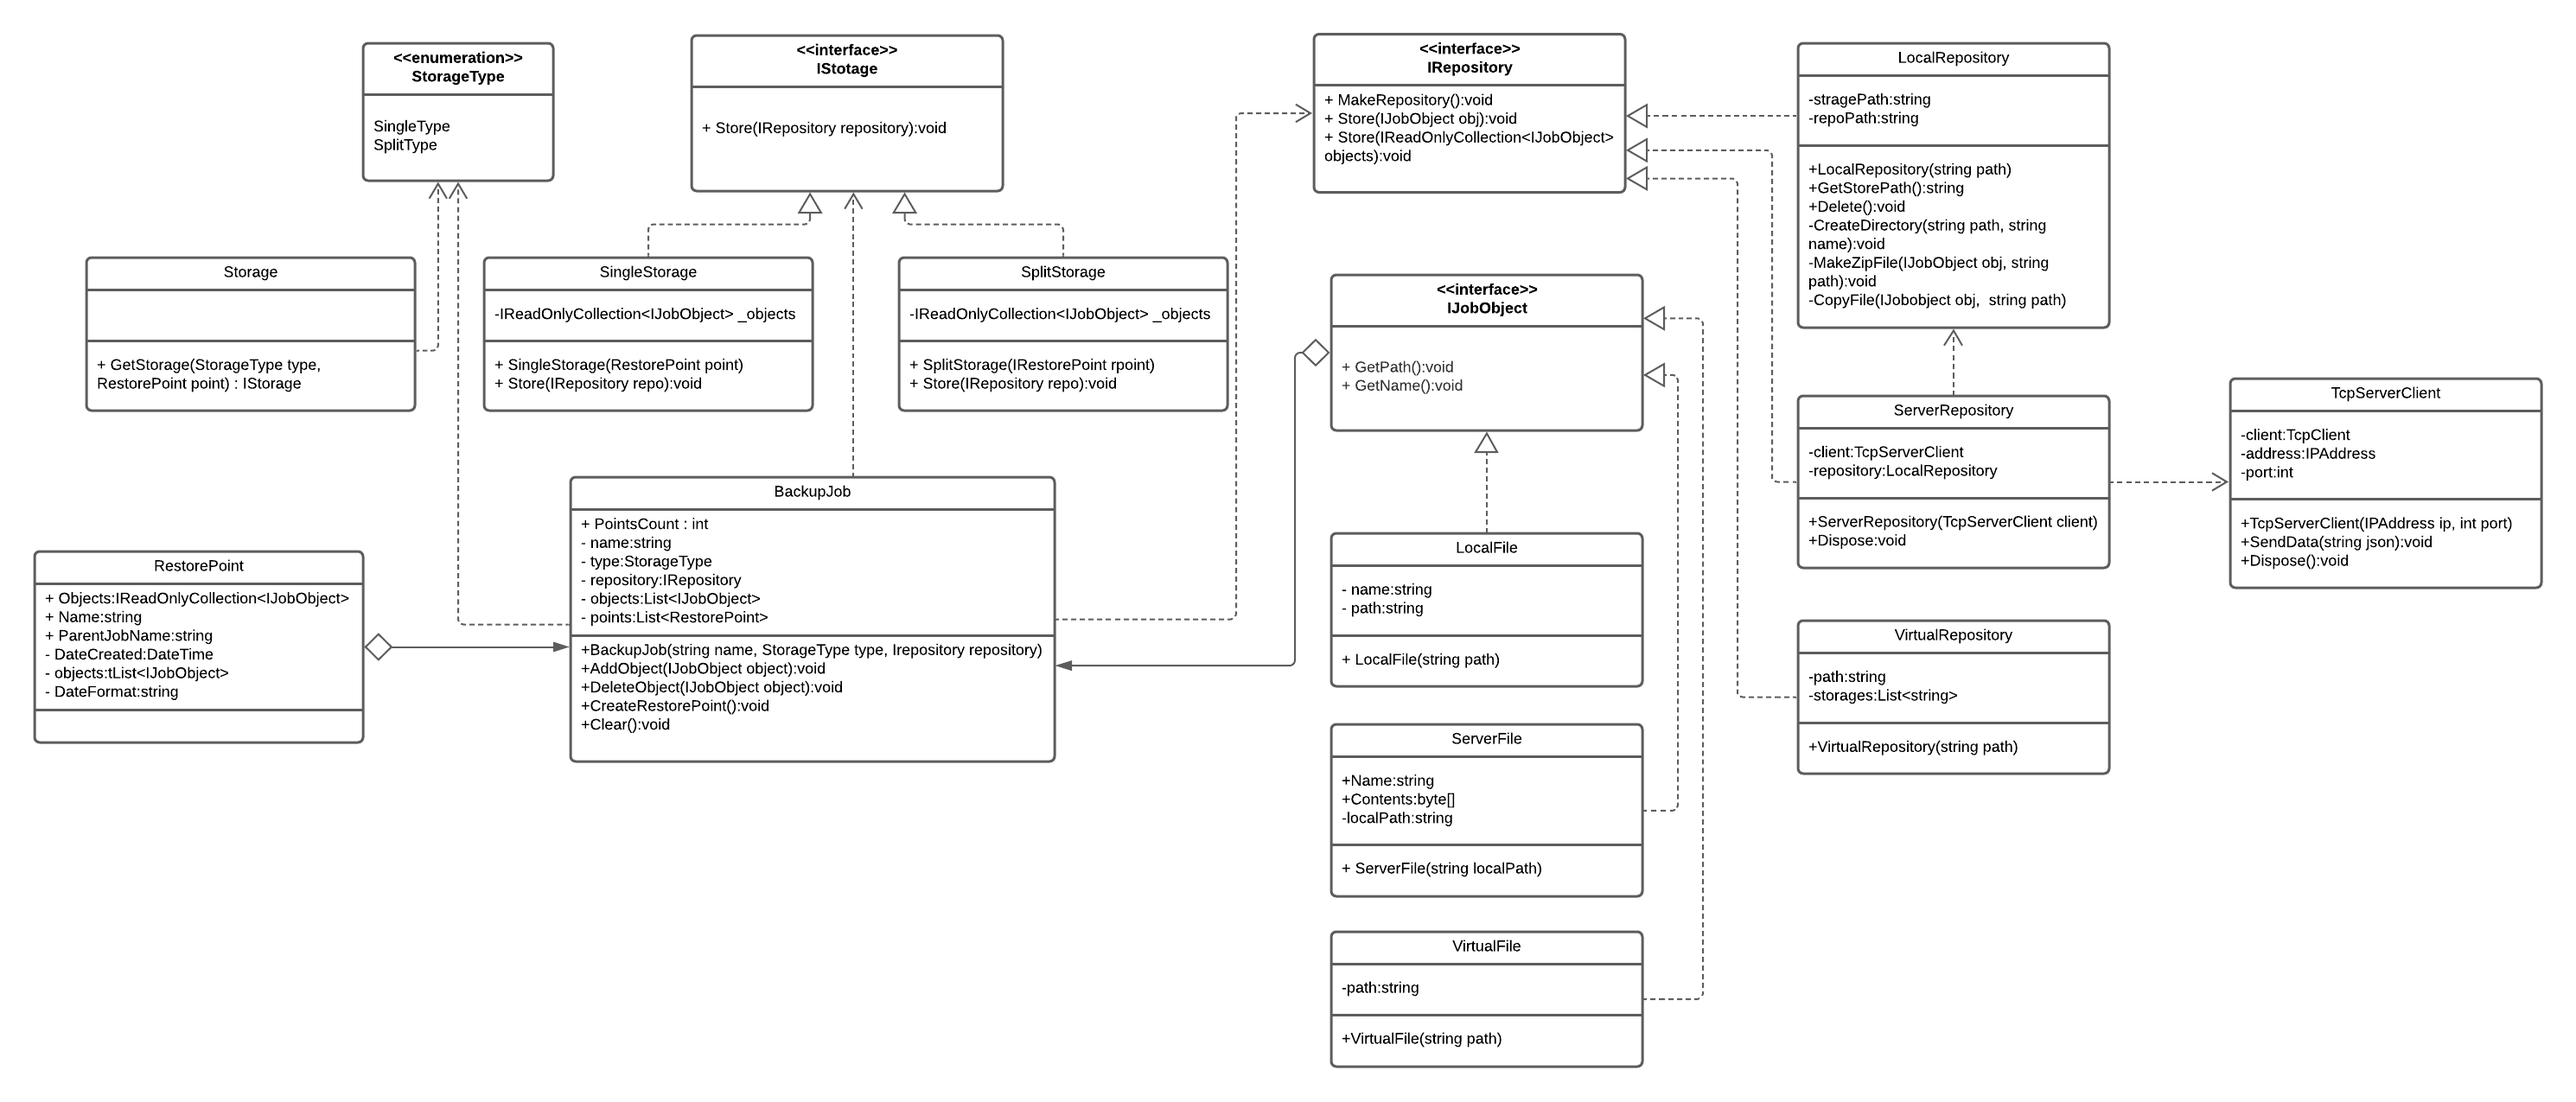
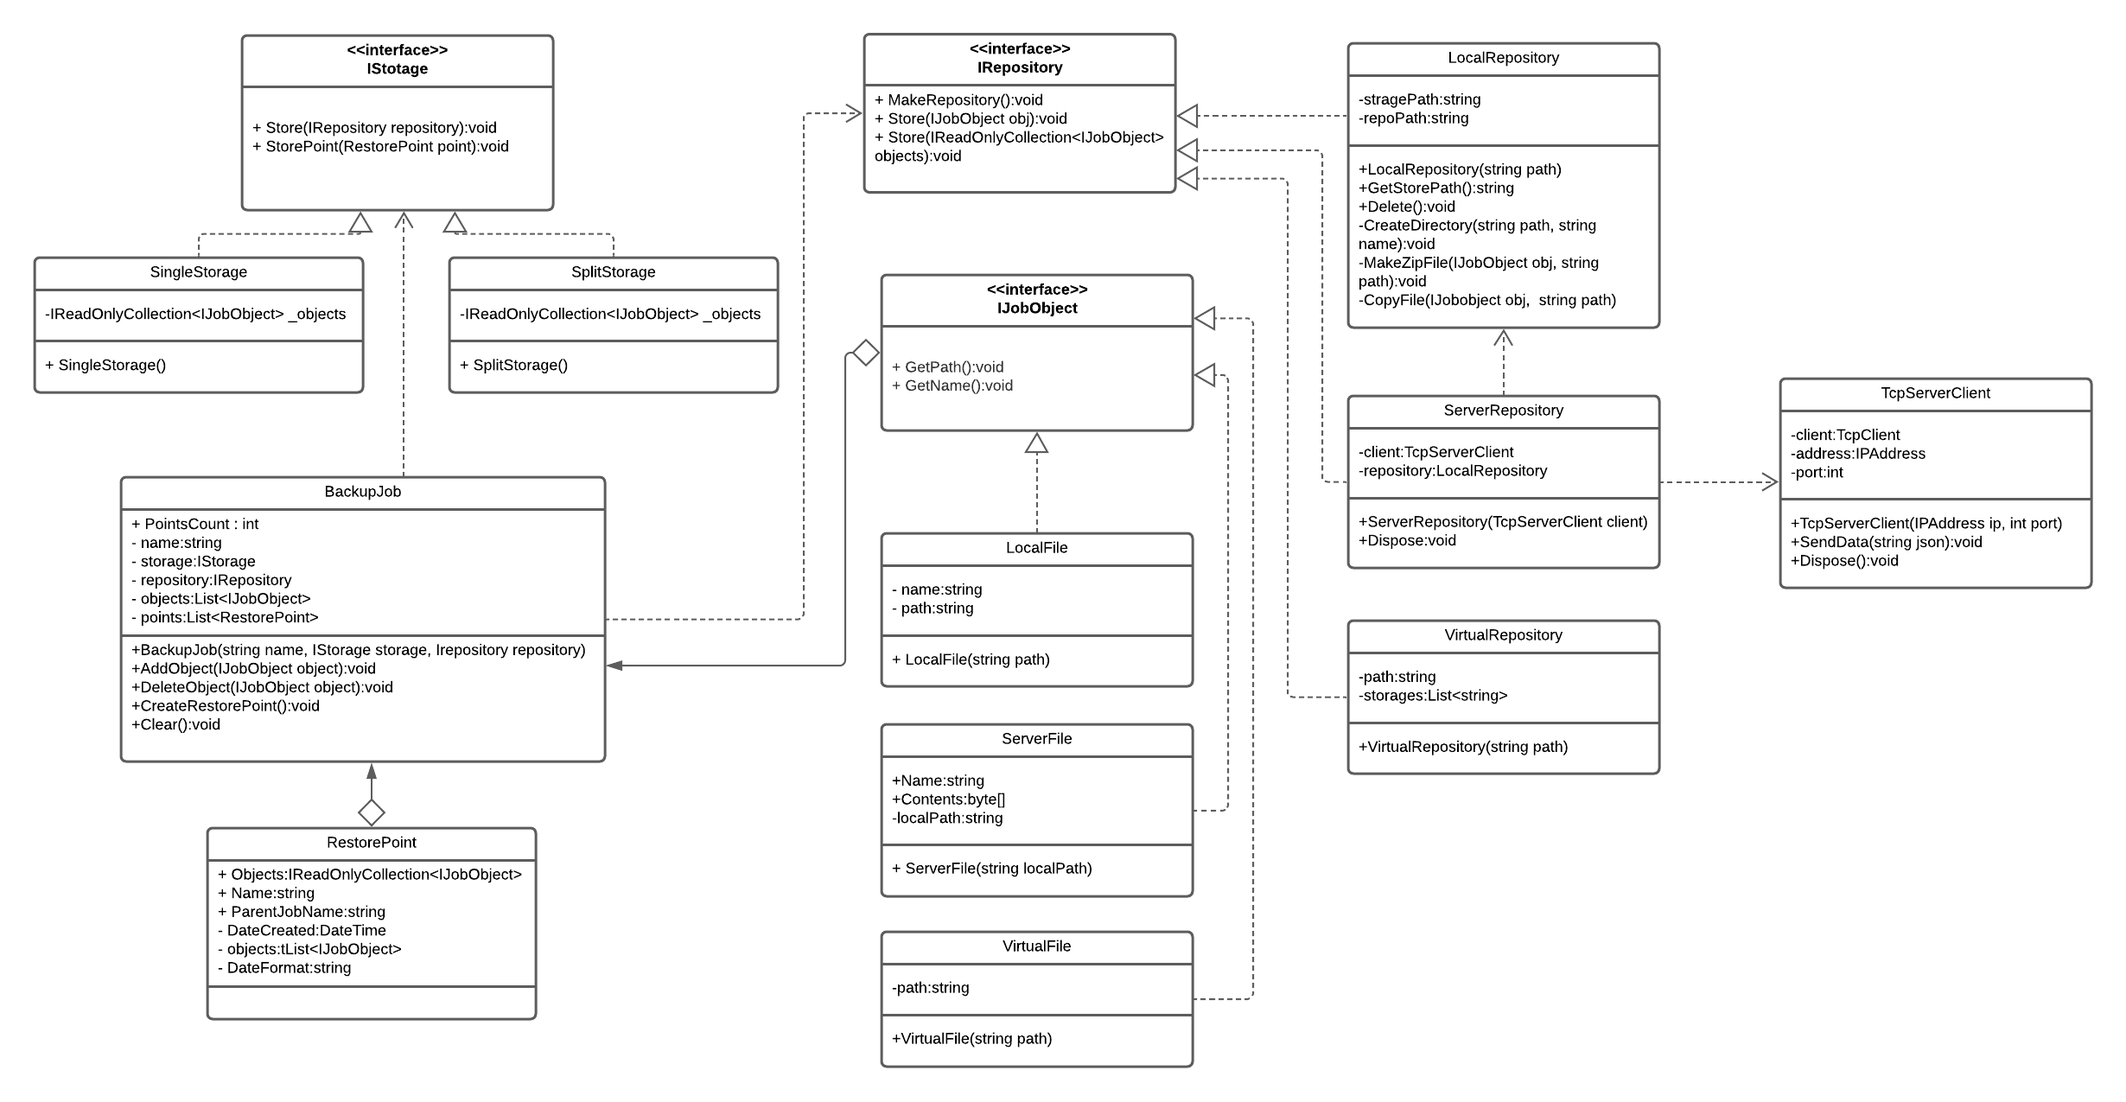
Remove StorageType enum

diff --git a/Backups/Program.cs b/Backups/Program.cs
@@ -10,10 +10,13 @@ namespace Backups
     {
         private static void Main()
         {
+            var singleStorage = new SingleStorage();
+            var splitStorage = new SplitStorage();
+
             // Test local backup
             string path = "/Users/vekajp/Desktop/test_backup";
             var localRepository = new LocalRepository(path);
-            var joba = new BackupJob("job1", StorageType.SingleType, localRepository);
+            var joba = new BackupJob("job1", singleStorage, localRepository);
             var file1 = new LocalFile("/Users/vekajp/Desktop/backups/file1.txt");
             var file2 = new LocalFile("/Users/vekajp/Desktop/backups/file2.txt");
             joba.AddObject(file1);
@@ -27,7 +30,7 @@ namespace Backups
             var serverFile2 = new ServerFile("/Users/vekajp/Desktop/backups/file2.txt");
             using var client = new TcpServerClient(IPAddress.Parse("127.0.0.1"), 8888);
             using var serverRepository = new ServerRepository(client);
-            joba = new BackupJob("server_job1", StorageType.SingleType, serverRepository);
+            joba = new BackupJob("server_job1", singleStorage, serverRepository);
             joba.AddObject(serverFile1);
             joba.AddObject(serverFile2);
             joba.CreateRestorePoint();
@@ -35,7 +38,7 @@ namespace Backups
             joba.CreateRestorePoint();
 
             // Test split storage server backup
-            joba = new BackupJob("server_job2", StorageType.SplitType, serverRepository);
+            joba = new BackupJob("server_job2", splitStorage, serverRepository);
             joba.AddObject(serverFile1);
             joba.AddObject(serverFile2);
             joba.CreateRestorePoint();

diff --git a/Backups/BackupAbstractModel/BackupJob.cs b/Backups/BackupAbstractModel/BackupJob.cs
@@ -6,14 +6,14 @@ namespace Backups.BackupAbstractModel
     public class BackupJob
     {
         private string _name;
-        private StorageType _type;
+        private IStorage _storage;
         private IRepository _repository;
         private List<IJobObject> _objects;
         private List<RestorePoint> _points;
-        public BackupJob(string name, StorageType type, IRepository repository)
+        public BackupJob(string name, IStorage storage, IRepository repository)
         {
             _name = name;
-            _type = type;
+            _storage = storage;
             _repository = repository;
             _objects = new List<IJobObject>();
             _points = new List<RestorePoint>();
@@ -43,9 +43,9 @@ namespace Backups.BackupAbstractModel
         public void CreateRestorePoint()
         {
             var point = new RestorePoint(_objects, _name);
-            IStorage storage = Storage.GetStorage(_type, point);
             _repository.MakeRepository(point);
-            storage.Store(_repository);
+            _storage.StorePoint(point);
+            _storage.Store(_repository);
             _points.Add(point);
         }
 

diff --git a/Backups.Tests/BackupJobTest.cs b/Backups.Tests/BackupJobTest.cs
@@ -10,7 +10,7 @@ namespace Backups.Tests
         public void SplitVirtualStorageTest()
         {
             var repo = new VirtualRepository("some path");
-            var joba = new BackupJob("job1", StorageType.SplitType, repo);
+            var joba = new BackupJob("job1", new SplitStorage(), repo);
             joba.AddObject(new VirtualFile("file1.png"));
             joba.AddObject(new VirtualFile("file2.png"));
             joba.CreateRestorePoint();
@@ -23,7 +23,7 @@ namespace Backups.Tests
         public void SingleVirtualStorageTest()
         {
             var repo = new VirtualRepository("some path");
-            var joba = new BackupJob("job1", StorageType.SingleType, repo);
+            var joba = new BackupJob("job1", new SingleStorage(), repo);
             joba.AddObject(new VirtualFile("file1.png"));
             joba.AddObject(new VirtualFile("file2.png"));
             joba.CreateRestorePoint();

diff --git a/Backups/BackupAbstractModel/SingleStorage.cs b/Backups/BackupAbstractModel/SingleStorage.cs
@@ -6,13 +6,14 @@ namespace Backups.BackupAbstractModel
     public class SingleStorage : IStorage
     {
         private IReadOnlyCollection<IJobObject> _objects;
-        public SingleStorage(RestorePoint point)
+        public SingleStorage()
         {
-            if (point is null)
-            {
-                throw new ArgumentNullException(nameof(point));
-            }
+            _objects = new List<IJobObject>();
+        }
 
+        public void StorePoint(RestorePoint point)
+        {
+            _ = point ?? throw new ArgumentNullException(nameof(point));
             _objects = point.Objects;
         }
 

diff --git a/Backups/BackupAbstractModel/SplitStorage.cs b/Backups/BackupAbstractModel/SplitStorage.cs
@@ -6,13 +6,14 @@ namespace Backups.BackupAbstractModel
     public class SplitStorage : IStorage
     {
         private IReadOnlyCollection<IJobObject> _objects;
-        public SplitStorage(RestorePoint point)
+        public SplitStorage()
         {
-            if (point is null)
-            {
-                throw new ArgumentNullException(nameof(point));
-            }
+            _objects = new List<IJobObject>();
+        }
 
+        public void StorePoint(RestorePoint point)
+        {
+            _ = point ?? throw new ArgumentNullException(nameof(point));
             _objects = point.Objects;
         }
 

diff --git a/Backups/BackupAbstractModel/IStorage.cs b/Backups/BackupAbstractModel/IStorage.cs
@@ -2,6 +2,7 @@ namespace Backups.BackupAbstractModel
 {
     public interface IStorage
     {
+        void StorePoint(RestorePoint point);
         void Store(IRepository repo);
     }
 }
